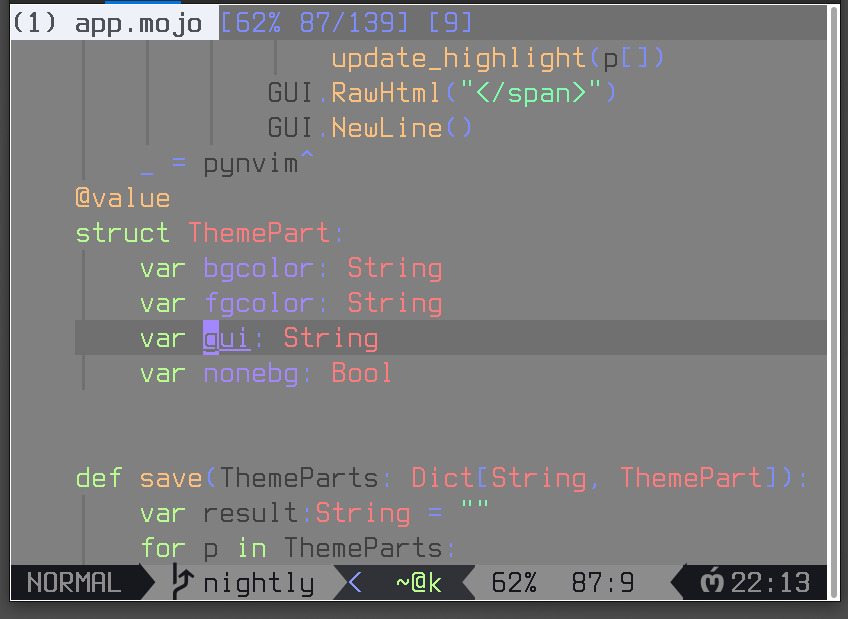
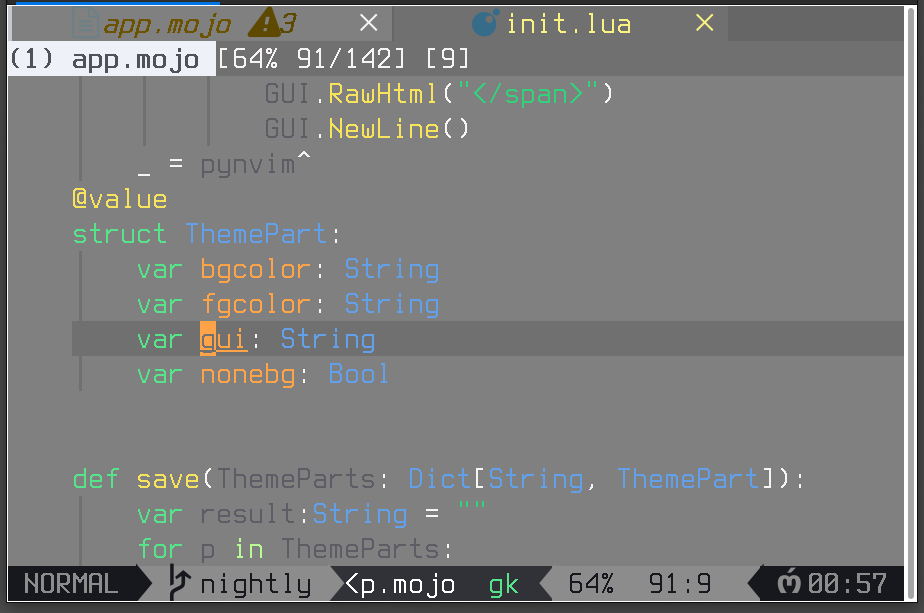
🎉🎨 Second commit

Changed region(s): [[0.0, 0.0, 1.0, 0.9918], [0.0613, 0.279, 0.5212, 0.6509]]

diff --git a/README.md b/README.md
@@ -244,6 +244,15 @@ vim.cmd("hi number guifg=#7fffae")
 vim.cmd("hi string guifg=#7fffae")
 vim.cmd("highlight CursorLine guibg=#707070 gui=none")
 vim.cmd("highlight comment guifg=#faf381")
+-- adjust colors
+vim.cmd("hi function guifg=#f8e45c guibg=none")
+vim.cmd("hi type guifg=#62a0ea guibg=none")
+vim.cmd("hi @lsp.type.variable guifg=#5e5c64 guibg=none")
+vim.cmd("hi statement guifg=#57e389 guibg=none")
+vim.cmd("hi identifier guifg=#ffa348 guibg=none")
+vim.cmd("hi string guifg=#33d17a guibg=none")
+vim.cmd("hi number guifg=#33d17a guibg=none")
+vim.cmd("hi normal guifg=#f6f5f4 guibg=#808080")
 ```
 
 &nbsp;
